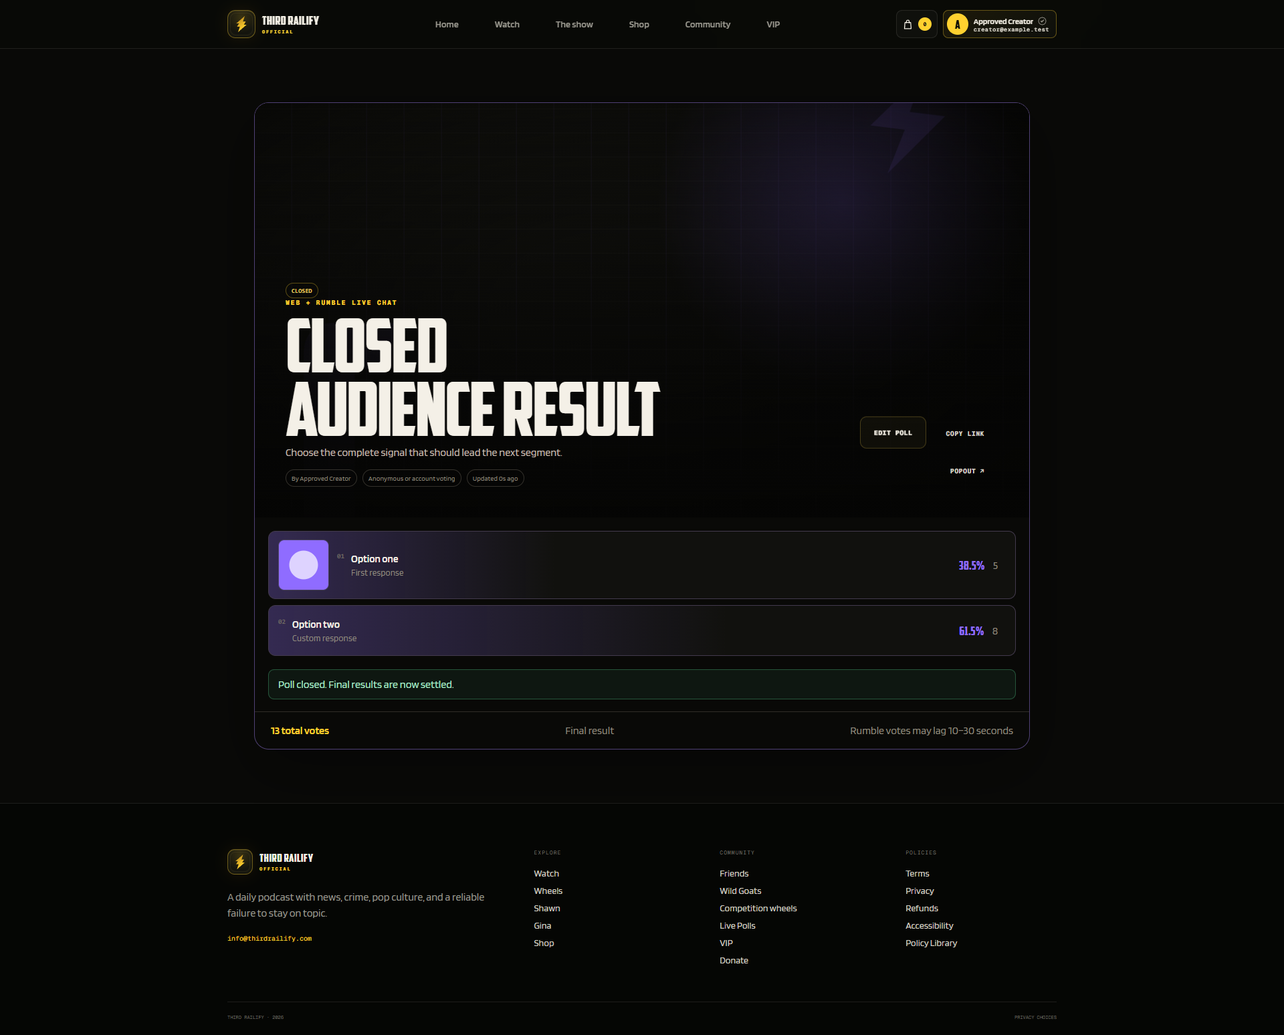
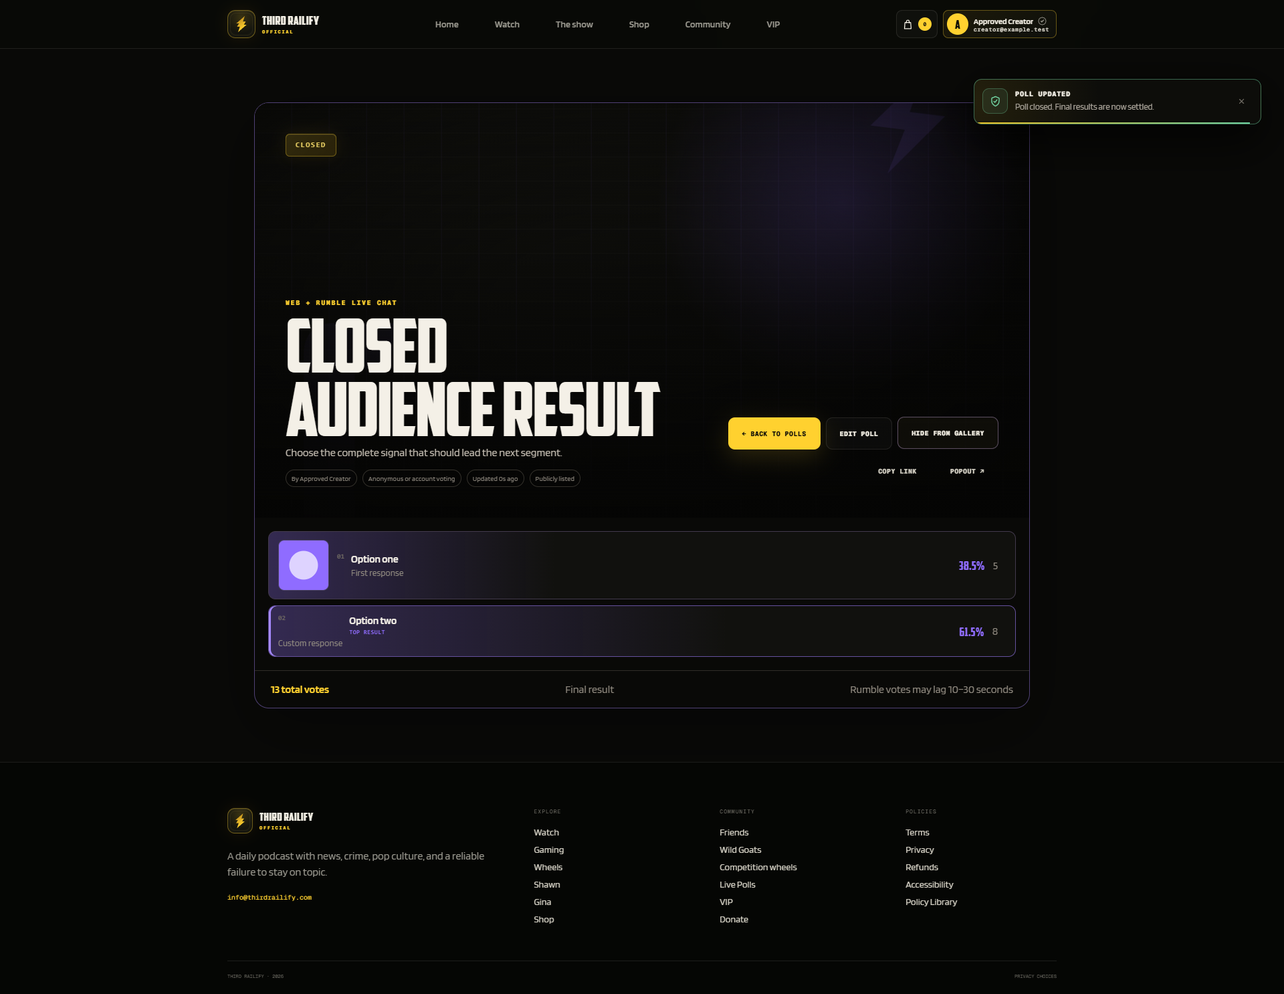
POLL CARD CHIPS

diff --git a/src/pages/GamingPage.tsx b/src/pages/GamingPage.tsx
@@ -2,14 +2,15 @@ import { useCallback, useEffect, useMemo, useState, type FormEvent } from "react
 import { TurnstileWidget } from "../auth/TurnstileWidget";
 import { useAuth } from "../auth/AuthProvider";
 import { ArrowIcon, BoltIcon, PlayIcon, RadioIcon } from "../components/Icons";
-import { normalizeSteamStoreUrl, steamSearchUrl, submitGameSuggestion } from "../gaming/client";
-import { GAMING_ROTATION, GAMING_RUMBLE_URL, GAMING_SCHEDULE, type GamingRotationItem } from "../gaming/rotation";
+import { normalizeSteamStoreUrl, steamSearchUrl, submitGameSuggestion, useGamingRotation } from "../gaming/client";
+import { GAMING_RUMBLE_URL, GAMING_SCHEDULE, type GamingRotationItem } from "../gaming/rotation";
 import { useMotionGate } from "../hooks/useMotionGate";
 import "../styles/gaming.css";
 
 type SuggestionErrors = Partial<Record<"gameTitle" | "steamUrl" | "pitch" | "verification", string>>;
 
 export function GamingPage() {
+  const managedRotation = useGamingRotation();
   const hero = useMotionGate<HTMLElement>();
   const about = useMotionGate<HTMLElement>();
   const rotation = useMotionGate<HTMLElement>();
@@ -28,16 +29,16 @@ export function GamingPage() {
         <div className="gaming-hero__copy">
           <p className="gaming-eyebrow"><i /> Sub-brand online / session rotation armed</p>
           <h1 id="gaming-title"><small>Third Railify</small><span>Gaming</span></h1>
-          <p className="gaming-hero__lede">Four active titles. Four weekly sessions. One green signal with absolutely no respect for the sensible route.</p>
+          <p className="gaming-hero__lede">A live managed rotation. Four weekly sessions. One green signal with absolutely no respect for the sensible route.</p>
           <div className="gaming-actions">
             <a className="gaming-button gaming-button--primary" href={GAMING_RUMBLE_URL} target="_blank" rel="noopener noreferrer">Watch Third Railify Gaming <PlayIcon /><span className="sr-only"> (opens in a new tab)</span></a>
             <a className="gaming-button gaming-button--secondary" href="#rotation">Current rotation <ArrowIcon /></a>
           </div>
           <GamingSchedule compact />
         </div>
-        <GamingSignalInstrument />
+        <GamingSignalInstrument items={managedRotation.items} />
       </div>
-      <div className="gaming-hero__ticker" aria-hidden="true"><span>INPUT LOCKED</span><i /><span>04 ACTIVE TITLES</span><i /><span>04 WEEKLY SESSIONS</span><i /><strong>THIRD RAILIFY GAMING / SIGNAL ROUTED</strong></div>
+      <div className="gaming-hero__ticker" aria-hidden="true"><span>INPUT LOCKED</span><i /><span>{String(managedRotation.items.length).padStart(2, "0")} ACTIVE TITLES</span><i /><span>04 WEEKLY SESSIONS</span><i /><strong>THIRD RAILIFY GAMING / SIGNAL ROUTED</strong></div>
     </section>
 
     <section ref={about.ref} className={`gaming-about${about.active ? " is-active" : ""}`} data-motion={about.active ? "active" : "static"} aria-labelledby="gaming-about-title">
@@ -46,7 +47,7 @@ export function GamingPage() {
           <p className="gaming-eyebrow">About / another rail entirely</p>
           <h2 id="gaming-about-title">Same signal.<br /><span>Different collision.</span></h2>
           <p>Third Railify Gaming is the gaming arm of the show: live sessions, rotating worlds, co-op panic, solo detours, and the community watching a perfectly reasonable plan become evidence.</p>
-          <dl className="gaming-about__facts"><div><dt>Format</dt><dd>Live play</dd></div><div><dt>Rotation</dt><dd>Four titles</dd></div><div><dt>Destination</dt><dd>Rumble</dd></div></dl>
+          <dl className="gaming-about__facts"><div><dt>Format</dt><dd>Live play</dd></div><div><dt>Rotation</dt><dd>{managedRotation.state === "ready" ? `${managedRotation.items.length} titles` : managedRotation.state === "empty" ? "Queue open" : "Managed live"}</dd></div><div><dt>Destination</dt><dd>Rumble</dd></div></dl>
         </div>
         <GamingSessionLoop />
       </div>
@@ -54,12 +55,10 @@ export function GamingPage() {
 
     <section ref={rotation.ref} id="rotation" className={`gaming-rotation${rotation.active ? " is-active" : ""}`} data-motion={rotation.active ? "active" : "static"} aria-labelledby="gaming-rotation-title">
       <div className="container gaming-section-heading">
-        <div><p className="gaming-eyebrow">Loaded now / four active slots</p><h2 id="gaming-rotation-title">Current <span>rotation.</span></h2></div>
+        <div><p className="gaming-eyebrow">Loaded now / Admin-managed programming</p><h2 id="gaming-rotation-title">Current <span>rotation.</span></h2></div>
         <p>The names below are the live programming labels. Store links appear only where the exact Steam catalogue match has been verified.</p>
       </div>
-      <div className="container gaming-rotation__grid">
-        {GAMING_ROTATION.map((item) => <RotationCard key={item.title} item={item} />)}
-      </div>
+      {managedRotation.state === "ready" ? <div className="container gaming-rotation__grid">{managedRotation.items.map((item) => <RotationCard key={item.id} item={item} />)}</div> : <div className="container gaming-rotation__state" role="status"><BoltIcon /><h3>{managedRotation.state === "loading" ? "Loading Current Rotation" : managedRotation.state === "empty" ? "Rotation queue open" : "Current Rotation unavailable"}</h3><p>{managedRotation.state === "loading" ? "Reading the live Gaming programming authority." : managedRotation.state === "empty" ? "No games are configured in Current Rotation right now." : "The managed Gaming authority could not be reached. The historical hardcoded list is not being substituted."}</p>{managedRotation.state === "unavailable" && <button type="button" className="gaming-button gaming-button--secondary" onClick={() => void managedRotation.retry()}>Try again</button>}</div>}
     </section>
 
     <section ref={request.ref} id="suggest" className={`gaming-request${request.active ? " is-active" : ""}`} data-motion={request.active ? "active" : "static"} aria-labelledby="gaming-request-title">
@@ -95,7 +94,7 @@ function GamingSchedule({ compact = false }: { compact?: boolean }) {
   </div>;
 }
 
-function GamingSignalInstrument() {
+function GamingSignalInstrument({ items }: { items: GamingRotationItem[] }) {
   return <div className="gaming-instrument" aria-hidden="true">
     <header><span>TRG / ROUTING CORE</span><b><i /> SIGNAL READY</b></header>
     <div className="gaming-instrument__viewport">
@@ -109,8 +108,8 @@ function GamingSignalInstrument() {
         <path className="gaming-instrument__route gaming-instrument__route--four" pathLength="1" d="M310 310C394 388 443 438 503 500" />
         <path className="gaming-instrument__wave" pathLength="1" d="M72 310h54l18-38 24 76 28-102 27 127 27-88 28 46 28-42 26 26 27-73 29 134 27-108 27 63 28-21h56" />
       </svg>
-      <div className="gaming-instrument__core"><BoltIcon /><small>GAMING</small><strong>04</strong><span>ACTIVE SLOTS</span></div>
-      {GAMING_ROTATION.map((game, index) => <span className={`gaming-instrument__slot gaming-instrument__slot--${index + 1}`} key={game.title}><i />{game.index} / {game.title}</span>)}
+      <div className="gaming-instrument__core"><BoltIcon /><small>GAMING</small><strong>{String(items.length).padStart(2, "0")}</strong><span>ACTIVE SLOTS</span></div>
+      {items.slice(0, 4).map((game, index) => <span className={`gaming-instrument__slot gaming-instrument__slot--${index + 1}`} key={game.id}><i />{game.index} / {game.title}</span>)}
       <span className="gaming-instrument__sweep" />
     </div>
     <footer><span>INPUT / 100%</span><i /><span>FRAME / LOCKED</span><i /><span>QUEUE / OPEN</span></footer>
@@ -134,17 +133,17 @@ function GamingSessionLoop() {
 
 function RotationCard({ item }: { item: GamingRotationItem }) {
   const [coverFailed, setCoverFailed] = useState(false);
-  const verifiedCover = Boolean(item.steam && !coverFailed);
+  const verifiedCover = Boolean(item.artworkUrl && !coverFailed);
   return <article className={`gaming-card gaming-card--${item.visual}`} data-cover={verifiedCover ? "verified" : "fallback"}>
     <div className="gaming-card__visual">
-      {verifiedCover ? <img src={item.steam!.coverUrl} alt={`${item.title} cover art from the official Steam store`} width="600" height="900" loading="lazy" decoding="async" onError={() => setCoverFailed(true)} /> : <GamingFallbackArt item={item} />}
+      {verifiedCover ? <img src={item.artworkUrl!} alt={`${item.title} cover artwork`} width="600" height="900" loading="lazy" decoding="async" onError={() => setCoverFailed(true)} /> : <GamingFallbackArt item={item} />}
       <span className="gaming-card__scan" aria-hidden="true" />
       <span className="gaming-card__index">{item.index} / ACTIVE ROTATION</span>
       <span className="gaming-card__status"><i /> IN ROTATION</span>
     </div>
     <div className="gaming-card__body">
-      <p>{item.genre}</p><h3>{item.title}</h3><span className="gaming-card__platform">PC via Steam</span><p className="gaming-card__description">{item.description}</p>
-      <footer>{item.steam ? <a href={item.steam.storeUrl} target="_blank" rel="noopener noreferrer">Official Steam listing <ArrowIcon /><span className="sr-only"> for {item.steam.canonicalTitle} (opens in a new tab)</span></a> : <span>Store mapping pending verification</span>}<small>{item.steam ? `APP ${item.steam.appId} / VERIFIED` : "BRANDED ART / NO STORE LINK"}</small></footer>
+      <p>{item.genre}</p><h3>{item.title}</h3><span className="gaming-card__platform">{item.platform}</span><p className="gaming-card__description">{item.description}</p>
+      <footer>{item.steam ? <a href={item.steam.storeUrl} target="_blank" rel="noopener noreferrer">Official Steam listing <ArrowIcon /><span className="sr-only"> for {item.title} (opens in a new tab)</span></a> : <span>Store mapping pending verification</span>}<small>{item.steam ? `APP ${item.steam.appId} / VERIFIED` : "BRANDED ART / NO STORE LINK"}</small></footer>
     </div>
   </article>;
 }

diff --git a/functions/api/gaming/rotation.js b/functions/api/gaming/rotation.js
@@ -1,0 +1,21 @@
+const TIMEOUT_MS = 3500;
+
+export async function onRequestGet({ env, data = {} }) {
+  try {
+    const origin = adminOrigin(env?.THIRDRAILIFY_ADMIN_ORIGIN); const controller = new AbortController(); const timeout = setTimeout(() => controller.abort(), TIMEOUT_MS);
+    let response; try { response = await (data.fetchImpl || fetch)(`${origin}/api/gaming/rotation`, { headers: { Accept: "application/json" }, signal: controller.signal }); } finally { clearTimeout(timeout); }
+    if (!response.ok) throw new Error("upstream_unavailable"); const payload = normalizeGamingRotation(await response.json());
+    return Response.json(payload, { headers: { "Cache-Control": "public, max-age=60, s-maxage=180, stale-while-revalidate=600", "X-Content-Type-Options": "nosniff" } });
+  } catch { return Response.json({ ok: false, error: "gaming_rotation_unavailable", message: "Current Rotation is temporarily unavailable." }, { status: 503, headers: { "Cache-Control": "no-store", "X-Content-Type-Options": "nosniff" } }); }
+}
+
+export function normalizeGamingRotation(input) {
+  if (!input || input.ok !== true || input.schema !== "thirdrailify-gaming-rotation-v1" || !Array.isArray(input.items)) throw new Error("gaming_rotation_invalid");
+  const items = input.items.map((item, index) => normalizeItem(item, index)); const ids = new Set(); const positions = new Set();
+  for (const item of items) { if (ids.has(item.id) || positions.has(item.position)) throw new Error("gaming_rotation_duplicate"); ids.add(item.id); positions.add(item.position); }
+  items.sort((a, b) => a.position - b.position);
+  return { ok: true, schema: input.schema, items, updatedAt: typeof input.updatedAt === "string" ? input.updatedAt.slice(0, 40) : null };
+}
+function normalizeItem(item, index) { const text = (value, max) => typeof value === "string" ? value.trim().slice(0, max) : ""; const id = text(item?.id, 120); const title = text(item?.title, 120); const position = Number(item?.position); if (!id || !title || !Number.isInteger(position) || position < 1 || position > 1000) throw new Error(`gaming_item_invalid_${index}`); const artworkUrl = httpsUrl(item.artworkUrl); let steam = null; if (item.steam) { const appId = text(item.steam.appId, 20); const storeUrl = httpsUrl(item.steam.storeUrl); if (!/^\d{1,12}$/.test(appId) || !storeUrl || new URL(storeUrl).hostname !== "store.steampowered.com" || !new URL(storeUrl).pathname.startsWith(`/app/${appId}/`)) throw new Error("gaming_steam_invalid"); steam = { appId, storeUrl }; } return { id, title, platform: text(item.platform, 80), description: text(item.description, 600), genre: text(item.genre, 120), artworkUrl, steam, position }; }
+function httpsUrl(value) { if (!value) return null; try { const url = new URL(String(value)); return url.protocol === "https:" && !url.username && !url.password ? url.toString() : null; } catch { return null; } }
+function adminOrigin(value) { const url = new URL(String(value || "")); if (url.protocol !== "https:" || url.username || url.password || url.pathname !== "/" || url.search || url.hash) throw new Error("admin_origin_invalid"); return url.origin; }

diff --git a/src/gaming/client.ts b/src/gaming/client.ts
@@ -1,3 +1,6 @@
+import { useCallback, useEffect, useState } from "react";
+import type { GamingRotationItem } from "./rotation";
+
 export type GameSuggestionInput = {
   gameTitle: string;
   steamUrl: string;
@@ -29,6 +32,10 @@ export function steamSearchUrl(title: string) {
   return `https://store.steampowered.com/search/?term=${encodeURIComponent(title.trim())}`;
 }
 
+export type RotationResponse = { ok:true;schema:"thirdrailify-gaming-rotation-v1";items:Array<{id:string;title:string;platform:string;description:string;genre:string;artworkUrl:string|null;steam:null|{appId:string;storeUrl:string};position:number}>;updatedAt:string|null };
+export function useGamingRotation(){const [items,setItems]=useState<GamingRotationItem[]>([]);const [state,setState]=useState<"loading"|"ready"|"empty"|"unavailable">("loading");const load=useCallback(async()=>{try{const response=await fetch("/api/gaming/rotation",{headers:{Accept:"application/json"}});const payload=await response.json().catch(()=>null) as RotationResponse|null;if(!response.ok||!payload?.ok||!Array.isArray(payload.items))throw new Error("rotation_unavailable");const next=payload.items.sort((a,b)=>a.position-b.position).map(item=>({id:item.id,index:String(item.position).padStart(2,"0"),title:item.title,platform:item.platform,description:item.description,genre:item.genre,artworkUrl:item.artworkUrl,steam:item.steam,visual:visualFor(item.id,item.title)}));setItems(next);setState(next.length?"ready":"empty");}catch{setItems([]);setState("unavailable");}},[]);useEffect(()=>{void load();const interval=window.setInterval(()=>void load(),60_000);return()=>window.clearInterval(interval);},[load]);return{items,state,retry:load};}
+function visualFor(id:string,title:string){const value=`${id} ${title}`.toLowerCase();if(value.includes("luminary"))return"luminary";if(value.includes("witcher"))return"runes";if(value.includes("mario")||value.includes("world"))return"world";if(value.includes("party"))return"party";return"signal";}
+
 export async function submitGameSuggestion(input: GameSuggestionInput, csrfToken = "") {
   const headers: Record<string, string> = { "Content-Type": "application/json", Accept: "application/json" };
   if (csrfToken) headers["X-CSRF-Token"] = csrfToken;
@@ -44,4 +51,3 @@ export async function submitGameSuggestion(input: GameSuggestionInput, csrfToken
   if (!response.ok || !body?.ok) throw new Error(body?.message || "The request signal could not be sent. Try again.");
   return body;
 }
-

diff --git a/src/gaming/rotation.ts b/src/gaming/rotation.ts
@@ -1,14 +1,15 @@
 export type GamingRotationItem = {
   index: string;
-  title: "WITCHER" | "LUMINARY" | "SUPER MARIO WORLD" | "PARTY ANIMAL";
+  id: string;
+  title: string;
+  platform: string;
   genre: string;
   description: string;
-  visual: "runes" | "luminary" | "world" | "party";
+  visual: string;
+  artworkUrl: string | null;
   steam: null | {
-    appId: "1648360";
-    canonicalTitle: "Luminary";
-    storeUrl: "https://store.steampowered.com/app/1648360/Luminary/";
-    coverUrl: "https://shared.fastly.steamstatic.com/store_item_assets/steam/apps/1648360/library_600x900.jpg";
+    appId: string;
+    storeUrl: string;
   };
 };
 
@@ -19,45 +20,5 @@ export const GAMING_SCHEDULE = [
   { day: "TUE", time: "2 PM" },
   { day: "THU", time: "2 PM" },
   { day: "FRI", time: "2 PM" },
-] as const;
-
-export const GAMING_ROTATION: readonly GamingRotationItem[] = [
-  {
-    index: "01",
-    title: "WITCHER",
-    genre: "RPG / ADVENTURE",
-    description: "Monster hunting, hard choices, and the side quest that quietly steals the whole session.",
-    visual: "runes",
-    steam: null,
-  },
-  {
-    index: "02",
-    title: "LUMINARY",
-    genre: "ACTION RPG / CO-OP",
-    description: "Solo or co-op exploration, character progression, and a campaign built around pushing back the dark with light.",
-    visual: "luminary",
-    steam: {
-      appId: "1648360",
-      canonicalTitle: "Luminary",
-      storeUrl: "https://store.steampowered.com/app/1648360/Luminary/",
-      coverUrl: "https://shared.fastly.steamstatic.com/store_item_assets/steam/apps/1648360/library_600x900.jpg",
-    },
-  },
-  {
-    index: "03",
-    title: "SUPER MARIO WORLD",
-    genre: "PLATFORMER",
-    description: "Classic platforming rhythm, secret routes, and one more level turning into an entire night.",
-    visual: "world",
-    steam: null,
-  },
-  {
-    index: "04",
-    title: "PARTY ANIMAL",
-    genre: "PARTY / PHYSICS",
-    description: "Physics-driven party chaos where the plan survives roughly one collision.",
-    visual: "party",
-    steam: null,
-  },
 ] as const;
 

diff --git a/src/styles/polls.css b/src/styles/polls.css
@@ -746,6 +746,30 @@
 .poll-stage { --poll-accent:#f3c928; border-color:color-mix(in srgb,var(--poll-accent) 38%,#28251f); background:#090907; }
 .poll-stage > .poll-cover { min-height:clamp(340px,52vw,620px); }
 .poll-stage__cover-copy { max-width:820px; }
+.poll-stage__cover-copy > .poll-state {
+  position:absolute;
+  z-index:2;
+  top:clamp(24px,4vw,46px);
+  left:clamp(24px,4vw,46px);
+  min-height:34px;
+  align-items:center;
+  padding:8px 14px;
+  border-width:1px;
+  border-radius:6px;
+  font-size:.7rem;
+  letter-spacing:.13em;
+  line-height:1;
+  backdrop-filter:blur(10px);
+  box-shadow:inset 0 1px rgba(255,255,255,.06),0 10px 28px rgba(0,0,0,.28);
+}
+.poll-stage__cover-copy > .poll-state--open {
+  background:linear-gradient(135deg,rgba(85,215,145,.2),rgba(13,55,35,.72));
+  box-shadow:inset 0 1px rgba(224,255,238,.1),0 0 24px rgba(85,215,145,.12),0 10px 28px rgba(0,0,0,.28);
+}
+.poll-stage__cover-copy > .poll-state--closed {
+  background:linear-gradient(135deg,rgba(243,201,40,.17),rgba(54,43,10,.7));
+  box-shadow:inset 0 1px rgba(255,246,198,.08),0 0 22px rgba(243,201,40,.1),0 10px 28px rgba(0,0,0,.28);
+}
 .poll-stage__cover-copy h1 { text-wrap:balance; }
 .poll-stage__cover-copy > p:not(.eyebrow) { max-width:68ch; color:#c0b9ae; }
 .poll-owner-close { border:1px solid rgba(224,77,96,.62); background:linear-gradient(135deg,rgba(224,77,96,.22),rgba(112,28,43,.12)); color:#ffd7dc; }
@@ -841,7 +865,7 @@
   .poll-card footer > span { flex-basis:100%; }
   .poll-modal__summary { align-items:flex-start; flex-direction:column; }
   .poll-modal .poll-cover { min-height:250px; flex-direction:row; align-items:flex-start; }
-  .poll-stage > .poll-cover { min-height:430px; }
+  .poll-stage > .poll-cover { min-height:430px; padding-top:82px; }
   .poll-options article,.poll-options article.has-image { grid-template-columns:58px minmax(0,1fr) auto auto; }
   .poll-options article:not(.has-image) { grid-template-columns:minmax(0,1fr) auto auto; }
   .poll-option__image { width:58px; }

diff --git a/src/styles/gaming.css b/src/styles/gaming.css
@@ -209,6 +209,11 @@ html.theme-gaming .gaming-page *::-webkit-scrollbar-thumb { border: 2px solid #0
 .gaming-section-heading h2 { margin-bottom: 0; }
 .gaming-section-heading > p { max-width: 440px; margin-bottom: 6px; color: #93a99a; line-height: 1.55; }
 .gaming-rotation__grid { display: grid; grid-template-columns: repeat(2,minmax(0,1fr)); gap: 16px; }
+.gaming-rotation__state { display: grid; justify-items: center; gap: 10px; min-height: 280px; padding: 48px 24px; text-align: center; color: var(--gaming-muted); }
+.gaming-rotation__state svg { width: 42px; height: 42px; color: var(--gaming-green); filter: drop-shadow(0 0 14px rgba(68,255,114,.4)); }
+.gaming-rotation__state h3 { margin: 0; color: var(--gaming-ink); font-size: clamp(1.4rem,3vw,2.2rem); text-transform: uppercase; }
+.gaming-rotation__state p { max-width: 650px; margin: 0; }
+.gaming-rotation__state .gaming-button { margin-top: 8px; }
 .gaming-card { position: relative; display: grid; grid-template-columns: minmax(190px,.72fr) minmax(0,1fr); min-height: 410px; overflow: hidden; border: 1px solid var(--gaming-line); background: rgba(9,17,11,.88); transition: transform 220ms ease,border-color 220ms ease,box-shadow 220ms ease; }
 .gaming-card:hover { z-index: 2; transform: translateY(-5px); border-color: rgba(105,242,148,.5); box-shadow: 0 28px 60px rgba(0,0,0,.36); }
 .gaming-card::before { position: absolute; z-index: 4; top: 0; right: 0; width: 32%; height: 1px; background: var(--gaming-accent); box-shadow: 0 0 14px var(--gaming-accent); content: ""; transform-origin: right; transform: scaleX(.25); transition: transform 300ms ease; }
@@ -433,4 +438,3 @@ html.theme-gaming .gaming-page *::-webkit-scrollbar-thumb { border: 2px solid #0
   .gaming-instrument__sweep { opacity: .28; }
   .gaming-loop__packet { opacity: .75; }
 }
-

diff --git a/README.md b/README.md
@@ -10,13 +10,13 @@ No migration is required. Local rollout requires the Admin API/authority deploym
 
 ## Third Railify Gaming (local implementation)
 
-`/gaming` is a first-class green-accented sub-brand route with the supplied Monday, Tuesday, Thursday, and Friday `2 PM` schedule, direct `https://rumble.com/thirdrailifygaming` viewing actions, and the exact four-title rotation: WITCHER, LUMINARY, SUPER MARIO WORLD, and PARTY ANIMAL. Luminary is the only exact verified Steam match and uses app `1648360`; the other labels deliberately use branded fallback art and no guessed store links. The page includes a manual Steam-search helper, responsive/reduced-motion-safe signal artwork, scoped scrollbar theming that cleans up on navigation, route SEO, and semantic header/mobile/footer discovery.
+`/gaming` is a first-class green-accented sub-brand route with the supplied Monday, Tuesday, Thursday, and Friday `2 PM` schedule and direct `https://rumble.com/thirdrailifygaming` viewing actions. Current Rotation is no longer hardcoded runtime authority: `GET /api/gaming/rotation` relays the Admin-owned, sanitized ordered projection with a one-minute browser refresh and three-minute shared-cache freshness. Cards accept Admin-curated metadata and artwork, retain branded fallback art when no cover exists, and expose Steam links only when the Admin projection marks an exact mapping verified. Loading, configured-empty, and unavailable states remain truthful and never silently substitute the old seed.
 
 Suggestions post through same-origin `POST /api/gaming/suggestions`. Public resolves an existing account session server-side, requires its CSRF proof when authenticated, applies Turnstile and a honeypot, and signs a bounded relay to Admin with the existing `THIRDRAILIFY_COMMUNITY_API_SECRET`; the browser supplies no account or Inbox authority. Admin persists the complete request in its existing durable Inbox with category `gaming`, so no new migration, provider key, or Steam API credential is required. The existing global Live Now banner remains unchanged and continues to cover the site's channels.
 
 Focused gates are `npm run test:gaming` and `npm run test:browser:gaming`. No deployment, remote write, migration, provider mutation, secret, DNS, or live-status change was performed.
 
-Gaming tree additions are `functions/api/gaming/suggestions.js`, `src/gaming/client.ts`, `src/gaming/rotation.ts`, `src/pages/GamingPage.tsx`, `src/styles/gaming.css`, and the focused `tests/gaming-*.test.mjs` suites. Existing route, shell, SEO, CSP, package-script, README, and bump-note files are extended in place; no file was removed.
+Gaming tree additions are `functions/api/gaming/suggestions.js`, `functions/api/gaming/rotation.js`, `src/gaming/client.ts`, `src/gaming/rotation.ts`, `src/pages/GamingPage.tsx`, `src/styles/gaming.css`, and the focused `tests/gaming-*.test.mjs` suites. `rotation.ts` now retains presentation types and schedule constants only; it contains no authoritative game records. Existing route, shell, SEO, CSP, package-script, README, and bump-note files are extended in place; no file was removed.
 
 ## Public Polls V1.1 (local implementation)
 

diff --git a/BUMP_NOTES.md b/BUMP_NOTES.md
@@ -1,5 +1,16 @@
 # Bump notes
 
+## 2026-09-01 - Managed Gaming Current Rotation
+
+CURRENT VER=0.1.0-alpha.0
+
+PENDING VER=0.1.0-alpha.0
+
+- Moved `/gaming` Current Rotation from a hardcoded TypeScript array to the Admin-owned, public-safe Gaming projection through same-origin `GET /api/gaming/rotation`.
+- Added ordered managed-card rendering, manual/uploaded artwork support, preserved Gaming fallback art, and Steam links only for server-projected verified mappings.
+- Added truthful loading, configured-empty, and unavailable states; Admin failure never silently substitutes the old four-title array. Browser refreshes once per minute and the relay uses a bounded three-minute shared-cache window with stale revalidation.
+- Updated focused relay/content/browser coverage for the four-title seed, ordering, artwork/fallback behavior, and lack of a competing runtime authority. No deployment, remote migration, provider/secret/DNS action, or push was performed.
+
 ## 2026-09-01 - Wheels V1.14 exact circularity and concentric rotor geometry
 
 CURRENT VER=0.1.0-alpha.0
